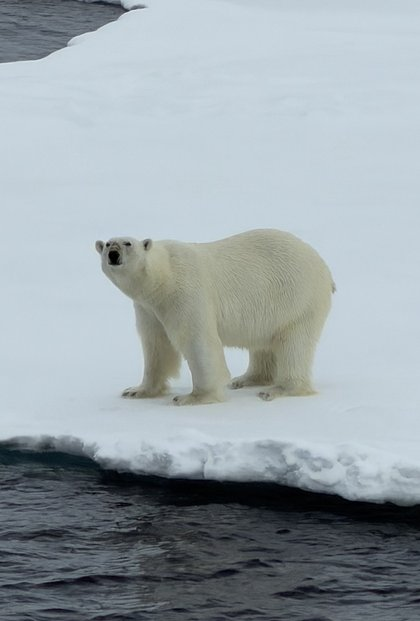
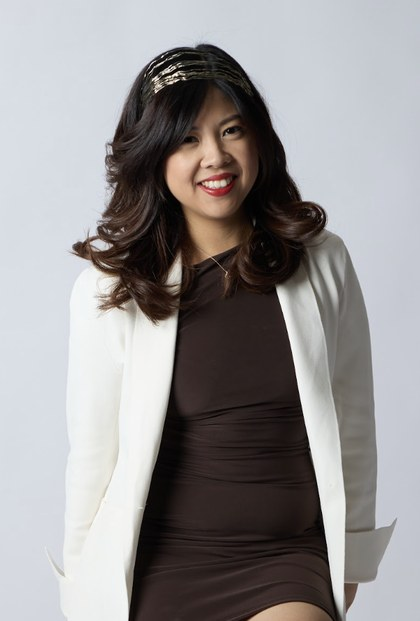
Replace polar bear sidebar portrait with real photo
Claude-Session: https://claude.ai/code/session_0188c7zPthVp5iUoQMwiSiEk

diff --git a/assets/js/shell.js b/assets/js/shell.js
@@ -34,7 +34,7 @@
 
   const sidebarHtml = `
     <div class="identity-block">
-      <img class="portrait" src="assets/img/portrait.jpg" alt="Polar bear on sea ice" />
+      <img class="portrait" src="assets/img/portrait.jpg" alt="Portrait of Rene Zou" />
       <div class="identity-col">
         <div class="identity-name">${CFG.name}</div>
         <div class="identity-lines">
